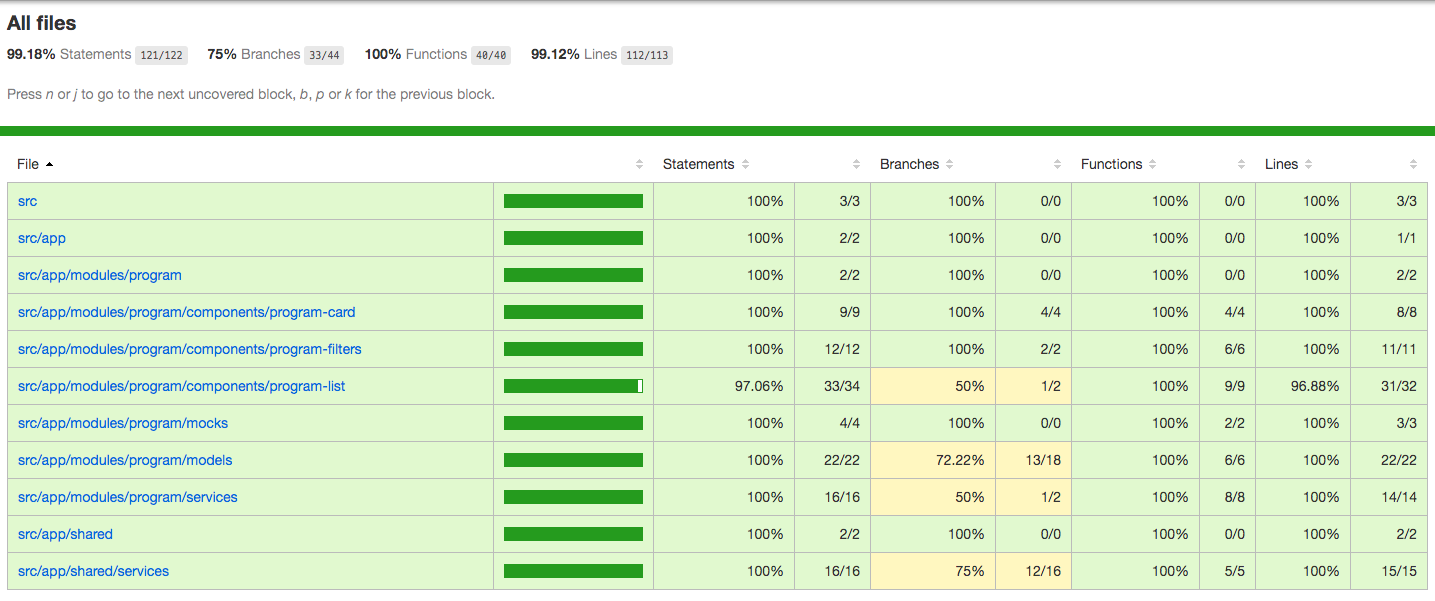
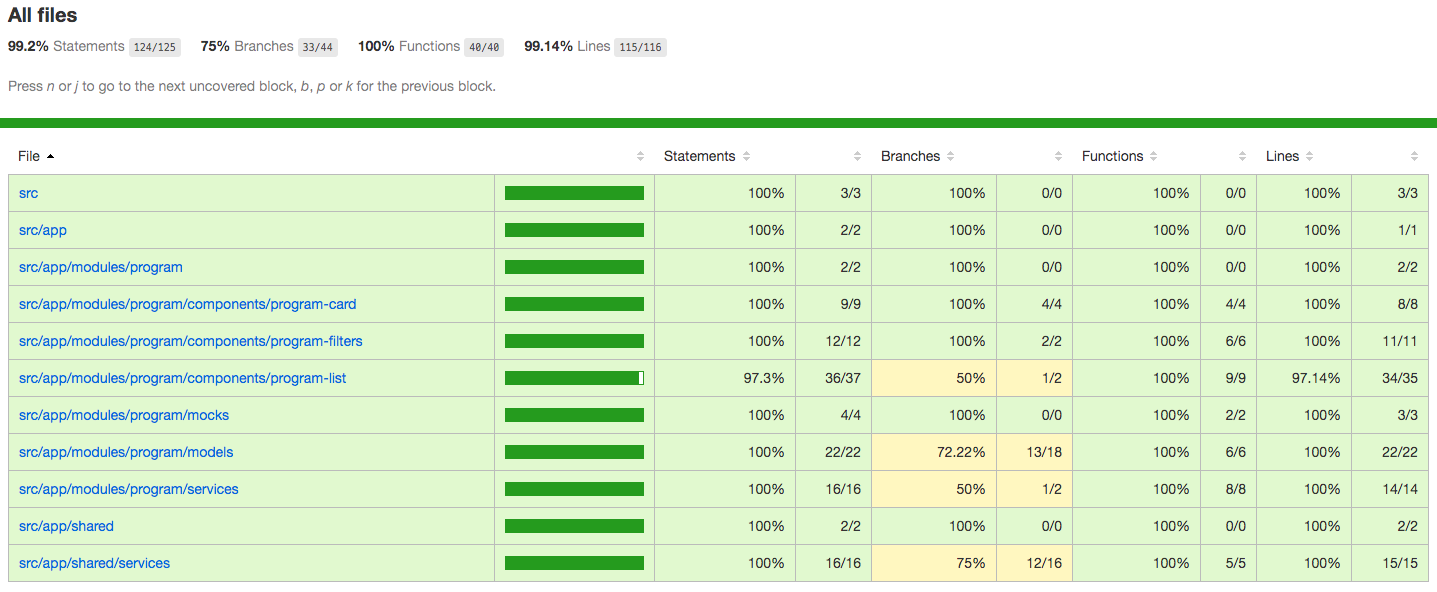
add loader

diff --git a/src/app/modules/program/components/program-list/program-list.component.ts b/src/app/modules/program/components/program-list/program-list.component.ts
@@ -23,6 +23,7 @@ export class ProgramListComponent implements OnInit, OnDestroy {
   public author = AUTHOR;
   public state: ProgramState;
   public appliedFilters: ProgramListFilters;
+  public loading = false;
 
   private subscriptions: Subscription[] = [];
 
@@ -36,9 +37,10 @@ export class ProgramListComponent implements OnInit, OnDestroy {
   ngOnInit(): void {
     this.prepareFilters();
 
-    // TODO: show loader using HTTP interceptor
     const sub = this.programStateService.state$.subscribe(
       (state: ProgramState) => {
+        this.loading = false;
+
         if (state.error) {
           // window object can be injected using a service to make it unit testable
           alert(`Error occurred: ${state.error.message}`);
@@ -49,6 +51,7 @@ export class ProgramListComponent implements OnInit, OnDestroy {
     this.subscriptions.push(sub);
 
     this.route.queryParamMap.subscribe((qp: any) => {
+      this.loading = true;
       this.appliedFilters = new ProgramListFilters(qp.params);
       this.programService.getPrograms(this.appliedFilters);
     });

diff --git a/src/styles.scss b/src/styles.scss
@@ -59,3 +59,35 @@ body {
 .flex-wrap {
   flex-wrap: wrap;
 }
+
+// loader
+.loader-cover {
+  z-index: 999;
+  background-color: rgba(0, 0, 0, 0.45);
+  width: 100vw;
+  height: 100vh;
+  position: absolute;
+  top: 0;
+  right: 0;
+
+  .loader {
+    border: 6px solid #fff;
+    border-top: 6px solid #3498db;
+    border-radius: 50%;
+    width: 40px;
+    position: absolute;
+    right: calc(50% - 40px);
+    top: calc(50% - 40px);
+    height: 40px;
+    animation: spin 2s linear infinite;
+  }
+}
+
+@keyframes spin {
+  0% {
+    transform: rotate(0deg);
+  }
+  100% {
+    transform: rotate(360deg);
+  }
+}

diff --git a/src/app/modules/program/components/program-list/program-list.component.html b/src/app/modules/program/components/program-list/program-list.component.html
@@ -2,6 +2,11 @@
   <h2>SpaceX Launch Programs</h2>
 </header>
 
+<!-- TODO: can be converted into a separate component -->
+<div *ngIf="loading" class="loader-cover">
+  <div class="loader"></div>
+</div>
+
 <div class="d-flex flex-wrap">
   <aside class="side-filters">
     <app-program-filters

diff --git a/src/app/modules/program/services/program.service.ts b/src/app/modules/program/services/program.service.ts
@@ -20,7 +20,6 @@ export class ProgramService {
     private state: ProgramStateService
   ) {}
 
-  // TODO: check any type
   public getPrograms(queryParams: ProgramListFilters): void {
     const params = new HttpParams({
       fromObject: {
